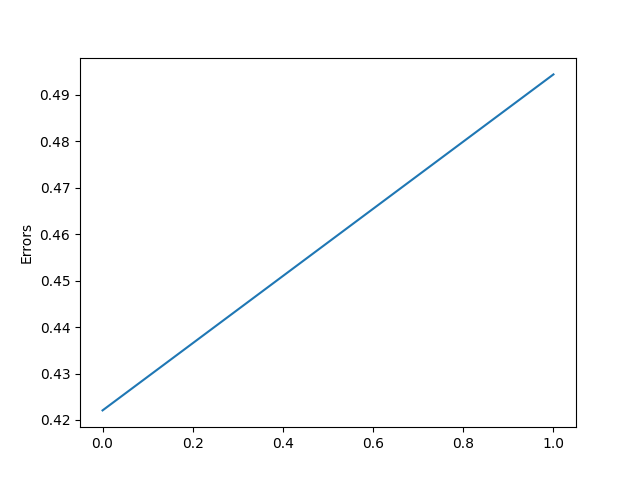
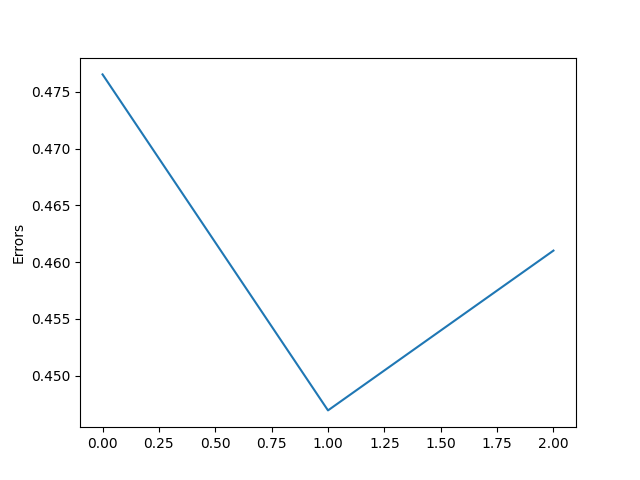
Vectorized backprop

diff --git a/src/backProp.py b/src/backProp.py
@@ -10,18 +10,24 @@ testData = np.array(testDataFrame)
 trainData = np.array(trainDataFrame)
 
 # Normalize data
-epsilon = 0.001
+epsilon = 0.1
 Y = np.array([[1 if label == i else 0 for i in range(10)] 
   for label in trainData[:,0]])
 
 X = trainData[:,1:] # The input vector
-X = X / X.sum(axis=1)[:, np.newaxis] # Normalize on a per row basis
+X = X / 255
 n = 784 # Dimension of the input space (28 * 28 = 784 pixels)
-m = 4 # Dimension of hidden layer ( 4 nodes )
+m = 16 # Dimension of hidden layer ( 4 nodes )
 l = 10 # Dimension of output ( 10 possible digits to classify )
 k = 60000 # Size of training data
 
 # Define functions
+def sigmoid(x):
+  return 1 / ( 1 + np.exp(-x))
+
+def sigmoidPrime(x):
+  return np.exp(-x) / ( 1 + np.exp(-x)) ** 2
+
 def ReLU(Z):
   return np.maximum(Z, 0)
 
@@ -32,10 +38,11 @@ def softmax(Z):
   A = np.exp(Z) / sum(np.exp(Z))
   return A
 
-def error(l, p):
-  if (len(p) != len(l)):
+def error(P, L):
+  if (P.shape != L.shape):
     raise ValueError("Lengths must be the same")
-  return np.sum([0.5 * (p[i] - l[i])**2 for i in range(len(p))])
+
+  return 0.5 *  np.sum([(P[i] - L[i])**2 for i in range(l)])
 
 
 def initializeParameters():
@@ -48,8 +55,8 @@ def initializeParameters():
 
   return W0, b0, W1, b1
 
-def forwardProp(W0, W1, b0, b1, X_i):
-  A0 = W0.T.dot(X_i) + b0
+def forwardProp(W0, W1, b0, b1, X):
+  A0 = W0.T.dot(X) + b0
   Z0 = ReLU(A0)
   Z1 = W1.T.dot(Z0) + b1
   P = softmax(Z1)
@@ -59,27 +66,14 @@ def forwardProp(W0, W1, b0, b1, X_i):
 
   return A0, P
 
-def backProp(W1, P, X_i, Y_i, A0):
+def backProp(W1, P, X, Y, A0):
 
-  def z(k):
-    return (P[k] - Y_i[k]) * P[k] * (1 + P[k])
-  
-  dW0 = np.array([[ReluPrime(A0[j]) 
-    * X_i[j] 
-    * np.sum([z(k) * W1[j][k] for k in range(l)]) for i in range(n)] 
-          for j in range(m)])
+  Z = (P - Y) * P * (1 + P)
 
-  db0 = np.array([
-    ReluPrime(A0[i]) * 
-    np.sum([z(k) * W1[i][k] for k in range(l)]) 
-      for i in range(m)])
-
-  dW1 =  np.array([[ReLU(A0[i]) 
-    * z(j) 
-      for i in range(m)] 
-        for j in range(l)])
-
-  db1 =  np.array([z(k) for k in range(l)])
+  dW0 = W1.dot(Z) * np.outer(X, ReluPrime(A0))
+  db0 = ReluPrime(A0) * W1.dot(Z)
+  dW1 = np.outer(Z, ReLU(A0))
+  db1 =  Z
 
   return dW0, db0, dW1, db1
 
@@ -91,10 +85,15 @@ def getAccuracy(p, Y):
   return np.sum(p == Y) / Y.size
 
 def updateParams(W0, W1, b0, b1, dW0, dW1, db0, db1, epsilon):
-  W0 = W0 - epsilon * dW0.T
+  # W0_prev = W0
+  # W1_prev = W1
+  W0 = W0 - epsilon * dW0
   b0 = b0 - epsilon * db0
   W1 = W1 - epsilon * dW1.T
   b1 = b1 - epsilon * db1
+
+  # print("========== W0 Diff", np.sum(W0 - W0_prev))
+  # print("========== W1 Diff", np.sum(W1 - W1_prev))
 
   return W0, b0, W1, b1
 
@@ -107,11 +106,10 @@ def gradientDescent(X, Y, epsilon, iterations):
     dW0, db0, dW1, db1 = backProp(W1, P, X[i], Y[i], A0)
     W0, b0, W1, b1 = updateParams(W0, W1, b0, b1, dW0, dW1, db0, db1, epsilon)
 
-    currError = error(P, Y[i])
-    errors.append(currError)
-
-    if i % 50 == 0:
+    if i % 100 == 0:
       print("Iteration: ===================", i)
+      currError = error(P, Y[i])
+      errors.append(currError)
       print("Error: ", currError)
 
   plt.plot(errors)
@@ -120,5 +118,5 @@ def gradientDescent(X, Y, epsilon, iterations):
   return W0, b0, W1, b1
 
 
-W0, b0, W1, b1 = gradientDescent( X, Y, epsilon, 2)
+W0, b0, W1, b1 = gradientDescent( X, Y, epsilon, 60000)
 # %%
